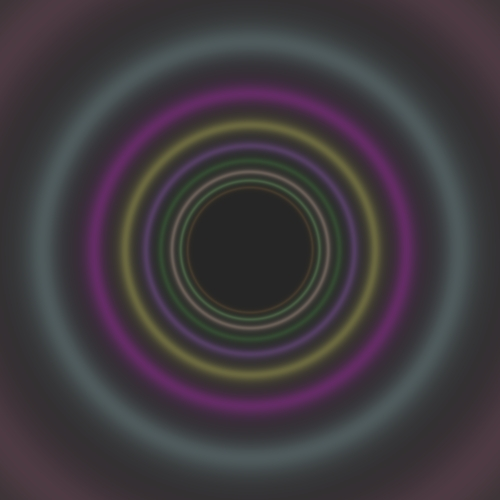
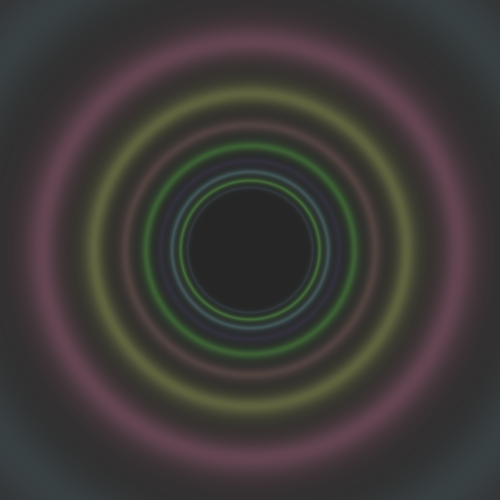
end of part 3 in recitation 7 transparency and half shadow

Changed region(s): [[0.15, 0.15, 0.84, 0.84]]

diff --git a/src/renderer/Render.java b/src/renderer/Render.java
@@ -31,6 +31,31 @@ public class Render {
     }
 
     /**
+     * return the factor of light shaded by transparency object
+     *
+     * @param ls light source
+     * @param l  vector from the light to that point
+     * @param n  vector normal to the geometry in that point
+     * @param gp the point that we want to check
+     * @return the factor of light shaded by transparency object
+     */
+    private double transparency(LightSource ls, Vector l, Vector n, GeoPoint gp) {
+            Vector lightDirection = l.scale(-1); // change direction, from point to lightSource
+            Ray lightRay = new Ray(gp._point, lightDirection, n);
+            List<GeoPoint> intersections =
+                    _scene.getGeometries().findIntersections(lightRay);
+            if (intersections == null) return 1.0;
+
+            double ktr = 1.0;
+        for (GeoPoint geoPoint : intersections)
+            if (alignZero(geoPoint._point.distance(gp._point) - ls.getDistance(gp._point)) <= 0) {
+                ktr *= geoPoint._geometry.getMaterial().getKT();
+                if (ktr < MIN_CALC_COLOR_K) return 0.0;
+            }
+        return ktr;
+    }
+
+    /**
      * Check if the pixel is shaded or not
      * by checking if a light source is blocked by other objects
      *
@@ -42,34 +67,16 @@ public class Render {
     private boolean unshaded(LightSource light, Vector l, Vector n, GeoPoint gp) {
         Vector lightDirection = l.scale(-1); // change direction, from point to lightSource
         Ray lightRay = new Ray(gp._point, lightDirection, n);
-        List<GeoPoint> intersections = //todo check light.getDistance(gp._point) if need -DELTA
-                _scene.getGeometries().findIntersections(lightRay, light.getDistance(gp._point));
+        List<GeoPoint> intersections =
+                _scene.getGeometries().findIntersections(lightRay);
         if (intersections == null)
             return true;
         for (GeoPoint geoPoint : intersections)
-            if (geoPoint._geometry.getMaterial().getKT() == 0)
+            if (alignZero(geoPoint._point.distance(gp._point) - light.getDistance(gp._point)) <= 0
+                    && geoPoint._geometry.getMaterial().getKT() == 0)
                 return false;
         return true;
     }
-
-    /**
-     * return imageWriter
-     *
-     * @return imageWriter
-     */
-    public ImageWriter getImageWriter() {
-        return _imageWriter;
-    }
-
-    /**
-     * return scene
-     *
-     * @return scene
-     */
-    public Scene getScene() {
-        return _scene;
-    }
-
 
     /**
      * create image from the scene
@@ -142,9 +149,7 @@ public class Render {
      * @return Color of this point
      */
     private Color calcColor(GeoPoint geoPoint, Ray inRay, int level, double k) {
-        if (level == 0 || k < MIN_CALC_COLOR_K) return Color.BLACK;
         Color color = geoPoint._geometry.getEmission(); // ie
-
         Vector v = geoPoint._point.subtract(_scene.getCamera().getLocation()).normalize();
         Vector n = geoPoint._geometry.getNormal(geoPoint._point);
         Material material = geoPoint._geometry.getMaterial();
@@ -154,12 +159,14 @@ public class Render {
         for (LightSource lightSource : _scene.getLights()) {
             Vector l = lightSource.getL(geoPoint._point);
             // both ( n.dotProduct(l)) and (n.dotProduct(v)) with same sign
-            if (n.dotProduct(l) * n.dotProduct(v) > 0)
-                if (unshaded(lightSource, l, n, geoPoint)) {
-                    Color lightIntensity = lightSource.getIntensity(geoPoint._point);
+            if (n.dotProduct(l) * n.dotProduct(v) > 0) {
+                double ktr = transparency(lightSource, l, n, geoPoint);
+                if (ktr * k > MIN_CALC_COLOR_K) {
+                    Color lightIntensity = lightSource.getIntensity(geoPoint._point).scale(ktr);
                     color = color.add(calcDiffusive(kD, l, n, lightIntensity),
                             calcSpecular(kS, l, n, v, nShininess, lightIntensity));
                 }
+            }
         }
         if (level == 1) return Color.BLACK;
         double kR = geoPoint._geometry.getMaterial().getKR(), kkr = k * kR;
@@ -283,6 +290,24 @@ public class Render {
             }
         }
         return closestPoint;
+    }
+
+    /**
+     * return imageWriter
+     *
+     * @return imageWriter
+     */
+    public ImageWriter getImageWriter() {
+        return _imageWriter;
+    }
+
+    /**
+     * return scene
+     *
+     * @return scene
+     */
+    public Scene getScene() {
+        return _scene;
     }
 
     /**

diff --git a/src/unittests/renderer/ReflectionRefractionTests.java b/src/unittests/renderer/ReflectionRefractionTests.java
@@ -2,7 +2,9 @@ package renderer;
 
 import elements.AmbientLight;
 import elements.Camera;
+import elements.PointLight;
 import elements.SpotLight;
+import geometries.Plane;
 import geometries.Sphere;
 import geometries.Triangle;
 import org.junit.Test;
@@ -99,6 +101,44 @@ public class ReflectionRefractionTests {
                 new Point3D(60, -50, 0), new Vector(0, 0, 1), 1, 4E-5, 2E-7));
 
         ImageWriter imageWriter = new ImageWriter("shadow with transparency", 200, 200, 600, 600);
+        Render render = new Render(imageWriter, scene);
+
+        render.renderImage();
+        render.writeToImage();
+    }
+
+    /**
+     * Produce a picture of a two triangles lighted by a spot light with a partially transparent Sphere
+     * producing partial shadow
+     */
+    @Test
+    public void ourTest() {
+        Scene scene = new Scene("Test scene");
+        scene.setCamera(new Camera(new Point3D(500, 150, 1500), new Vector(-50, -50, -100), new Vector(50, -50, 0)));
+        scene.setDistance(200);
+        scene.setBackground(Color.BLACK);
+        scene.setAmbientLight(new AmbientLight(new Color(java.awt.Color.WHITE), 0.15));
+
+        scene.addGeometries(
+                new Plane(new Color(java.awt.Color.blue),
+                        new Material(0.2, 0.2, 30, 0, 0.7),
+                        new Point3D(0, -4, 0), new Point3D(-4, 0, 0), new Point3D(0, 0, -1)),
+                new Plane(new Color(java.awt.Color.blue),
+                        new Material(0.2, 0.2, 30, 0, 0.7),
+                        new Point3D(-4, 0, 0), new Point3D(0, 4, 0), new Point3D(0, 0, -1)),
+                new Plane(new Color(java.awt.Color.blue),
+                        new Material(0.2, 0.2, 30, 0, 0.7),
+                        new Point3D(0, 4, 0), new Point3D(4, 0, 0), new Point3D(0, 0, -1)),
+                new Plane(new Color(java.awt.Color.blue),
+                        new Material(0.2, 0.2, 30, 0, 0.7),
+                        new Point3D(4, 0, 0), new Point3D(0, -4, 0), new Point3D(0, 0, -1)),
+                new Sphere(new Color(java.awt.Color.green), new Material(0.2, 0.2, 30, 0.6, 0.4), // )
+                        30, new Point3D(0, 0, 80)));
+
+        scene.addLights(new PointLight(new Color(700, 400, 400), //
+                new Point3D(60, -50, 100), 1, 4E-5, 2E-7));
+
+        ImageWriter imageWriter = new ImageWriter("ourTest", 200, 200, 600, 600);
         Render render = new Render(imageWriter, scene);
 
         render.renderImage();

diff --git a/src/geometries/Sphere.java b/src/geometries/Sphere.java
@@ -91,14 +91,11 @@ public class Sphere extends RadialGeometry {
         double t2 = alignZero(tm + th);
 
         if (alignZero(t1 - max) > 0) return null; // always t1 < t2
-
         if (t2 <= 0) return null;
+        if (alignZero(t2 - max) > 0) return null;
 
-        if (alignZero(t2 - max) <= 0) {
-            if (t1 <= 0) // only t2 > 0
-                return List.of(new GeoPoint(this, ray.getPoint(t2)));
-            return List.of(new GeoPoint(this, ray.getPoint(t1)), new GeoPoint(this, ray.getPoint(t2)));
-        }
-        return null;
+        if (t1 <= 0) // only t2 > 0
+            return List.of(new GeoPoint(this, ray.getPoint(t2)));
+        return List.of(new GeoPoint(this, ray.getPoint(t1)), new GeoPoint(this, ray.getPoint(t2)));
     }
 }
